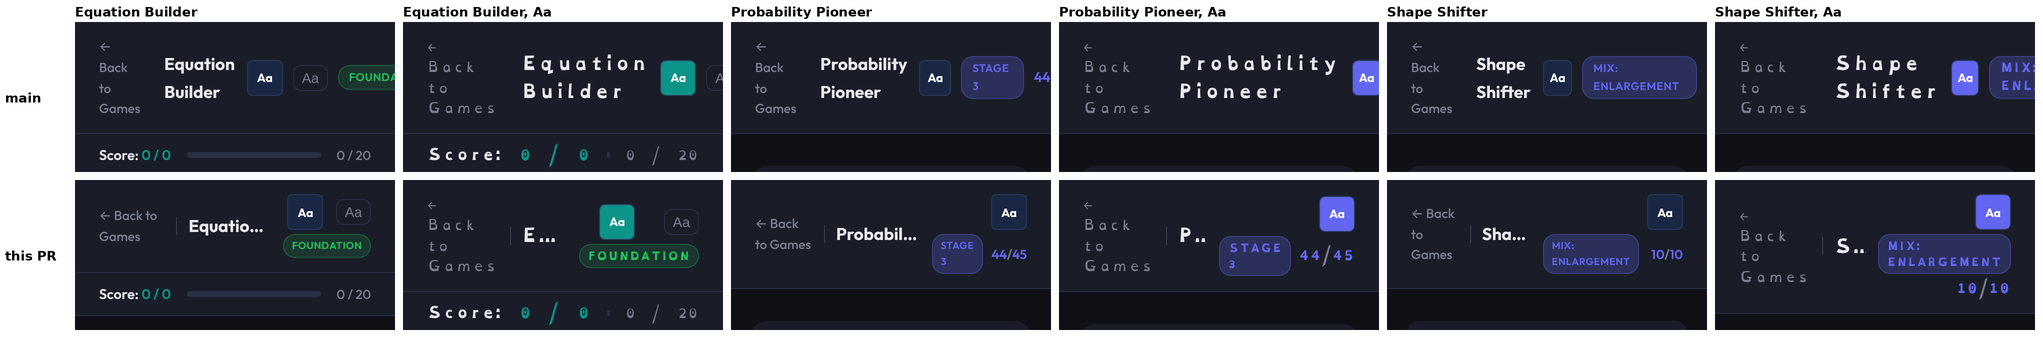
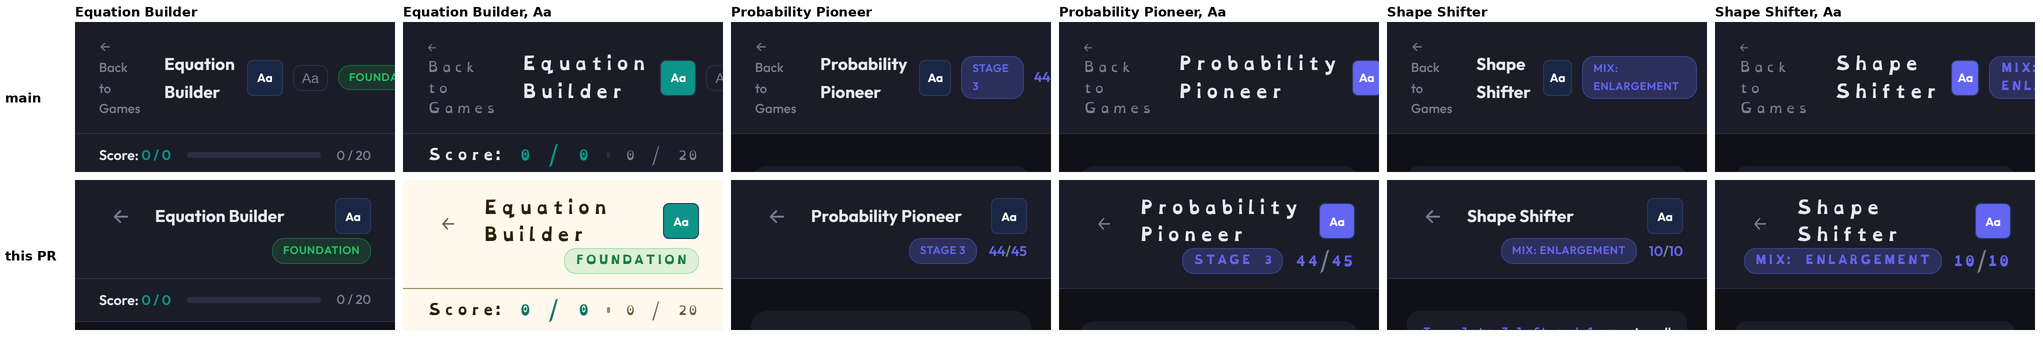
HEADER-FIT Amendment 1: one Aa button in Equation Builder; arrow-only back link so the title shows in full
Equation Builder (Jon, 11:34): keeps the standard a11yToggle (mfg_accessible). The second button
(a11yBtn, body.dyslexia, mfg_dyslexia) is removed with its CSS and handler; what it did that the
standard mode did not moves onto Aa mode: the cream palette and teal start title everywhere, the
larger text (18px, line-height 1.8) above 480px only, because on a phone with OpenDyslexic it put
Next below the fold (canon 7.6.1). Its tighter letter spacing gives way to the standard's.

All three games, below 375px and up to 480px in Aa mode: the back link shows its arrow only
(aria-label "Back to Games", 44x44, as Expected Damage), the divider hides, the title and the Aa
toggle share the first row and the pill and score take a row under them. The title shows in full
at 320px (168px wide; two lines at a word break in Aa mode); the ellipsis is a last resort only.
The smaller pill and score text is no longer needed and is dropped.

measure-phone-fit, normal and Aa, three games, three sizes: every figure the same or better than
main, no sideways scroll; tier 1 clean.

Claude-Session: https://claude.ai/code/session_016VxfSWZovUq7yE2hfiSKFo

diff --git a/games/equation-builder/index.html b/games/equation-builder/index.html
@@ -124,30 +124,43 @@ body{padding-bottom:44px;background:var(--bg);font-family:'Outfit',system-ui,san
 .play-again:hover{opacity:0.9}
 
 /* Accessibility toggle */
-.a11y-btn{background:none;border:1px solid var(--border);color:var(--muted);border-radius:8px;padding:5px 8px;cursor:pointer;font-size:14px;line-height:1;transition:all 0.15s}
-.a11y-btn:hover{border-color:var(--teal);color:var(--text)}
-.a11y-btn.active{border-color:var(--teal);color:var(--teal);background:rgba(13,148,136,0.1)}
-body.dyslexia{background:#fdf6e3;color:#2d2006;--bg:#fdf6e3;--surface:#fff8ec;--surface-alt:#fef3d8;--border:#9a8654;--text:#2d2006;--muted:#6b5c3e;--teal:#087568;--teal-dim:rgba(8,117,104,0.18);--green:#15803d;--green-dim:rgba(21,128,61,0.12);--red:#b91c1c;--red-dim:rgba(185,28,28,0.1);--ks3:#15803d;--gcse:#1d4ed8;--l4:#b91c1c}
-body.dyslexia .screen{font-size:18px;line-height:1.8;letter-spacing:0.12em;word-spacing:0.16em}
-body.dyslexia .question-card{font-size:18px;line-height:1.8;letter-spacing:0.05em;word-spacing:0.12em}
-body.dyslexia .slot,body.dyslexia .tile{font-size:15px;letter-spacing:0.05em}
-body.dyslexia .start-title,body.dyslexia .results-pct{color:var(--teal)}
+/* Aa mode's cream palette and larger text, moved from the game's former second Aa button (HEADER-FIT Amendment 1).
+   The standard mode's wider letter and word spacing is kept. The larger text applies above 480px only: on a phone, with
+   OpenDyslexic, it pushed Next below the fold (canon 7.6.1). */
+body.accessible{background:#fdf6e3;color:#2d2006;--bg:#fdf6e3;--surface:#fff8ec;--surface-alt:#fef3d8;--border:#9a8654;--text:#2d2006;--muted:#6b5c3e;--teal:#087568;--teal-dim:rgba(8,117,104,0.18);--green:#15803d;--green-dim:rgba(21,128,61,0.12);--red:#b91c1c;--red-dim:rgba(185,28,28,0.1);--ks3:#15803d;--gcse:#1d4ed8;--l4:#b91c1c}
+@media(min-width:481px){
+body.accessible .screen{font-size:18px;line-height:1.8}
+body.accessible .question-card{font-size:18px;line-height:1.8}
+body.accessible .slot,body.accessible .tile{font-size:15px}
+}
+body.accessible .start-title,body.accessible .results-pct{color:var(--teal)}
 @media(prefers-reduced-motion:reduce){*{animation:none!important;transition:none!important}}
 
 .fade-out{opacity:0;transition:opacity 0.2s}.fade-in{opacity:1;transition:opacity 0.2s}
 @media(max-width:480px){.level-grid{grid-template-columns:1fr}.results-stats{grid-template-columns:1fr 1fr}}
-/* HEADER-FIT (todo §1.39): the header fits a 320px phone. The title shortens with an ellipsis; both Aa buttons stay on
-   the title's row and the level pill goes under them. Below 375px (normal mode overflowed only there on main), and up to 480px
-   in Aa mode, whose wider font overflowed at every phone size. */
+/* HEADER-FIT (todo §1.39, Amendment 1): the header fits a 320px phone with the title in full. The back link shows its
+   arrow only (named by aria-label), the title and the Aa toggle share the first row, and the level pill take a row
+   under them. Below 375px (normal mode overflowed only there on main), and up to 480px in Aa mode, whose wider font
+   overflowed at every phone size. The ellipsis is a last resort only. */
 @media(max-width:374px){
-.header-title{min-width:0;overflow:hidden;text-overflow:ellipsis;white-space:nowrap}
-.header-right{display:grid;grid-template-columns:auto auto;gap:4px 8px;justify-items:end;align-items:center}
-.level-pill{grid-column:1/-1;font-size:10px;padding:3px 8px}
+.header{flex-wrap:wrap;row-gap:0}
+.back-link{display:flex;align-items:center;justify-content:center;min-width:44px;min-height:44px;font-size:20px}
+.back-text,.header-div{display:none}
+.header-title{flex:1 1 0;min-width:0;overflow:hidden;text-overflow:ellipsis}
+.header-right{display:contents}
+.header::after{content:"";order:1;flex-basis:100%}
+.header-right>:not(.a11y-toggle){order:2}
+.header-right>.a11y-toggle+*{margin-left:auto}
 }
 @media(max-width:480px){
-body.accessible .header-title{min-width:0;overflow:hidden;text-overflow:ellipsis;white-space:nowrap}
-body.accessible .header-right{display:grid;grid-template-columns:auto auto;gap:4px 8px;justify-items:end;align-items:center}
-body.accessible .level-pill{grid-column:1/-1;font-size:10px;padding:3px 8px}
+body.accessible .header{flex-wrap:wrap;row-gap:0}
+body.accessible .back-link{display:flex;align-items:center;justify-content:center;min-width:44px;min-height:44px;font-size:20px}
+body.accessible .back-text,body.accessible .header-div{display:none}
+body.accessible .header-title{flex:1 1 0;min-width:0;overflow:hidden;text-overflow:ellipsis}
+body.accessible .header-right{display:contents}
+body.accessible .header::after{content:"";order:1;flex-basis:100%}
+body.accessible .header-right>:not(.a11y-toggle){order:2}
+body.accessible .header-right>.a11y-toggle+*{margin-left:auto}
 }
 
 /* === Accessibility === */
@@ -191,13 +204,11 @@ body.accessible p,body.accessible .question-text,body.accessible .statement-text
 <body>
 
 <div class="header">
-  <a href="../../" class="back-link">← Back to Games</a>
+  <a href="../../" class="back-link" aria-label="Back to Games">←<span class="back-text"> Back to Games</span></a>
   <div class="header-div"></div>
   <div class="header-title">Equation Builder</div>
   <div class="header-right">
     <button class="a11y-toggle" id="a11yToggle" aria-label="Toggle dyslexia-friendly mode" title="Dyslexia-friendly mode">Aa</button>
-
-    <button class="a11y-btn" id="a11yBtn" title="Accessibility: dyslexia-friendly mode">Aa</button>
     <span class="level-pill" id="levelPill"></span>
   </div>
 </div>
@@ -428,10 +439,6 @@ function init(){
   $('startBtn').addEventListener('click',startGame);
   $('playAgain').addEventListener('click',()=>showScreen('start'));
   $('checkBtn').addEventListener('click',checkAnswer);
-  // Accessibility toggle
-  const a11yBtn=$('a11yBtn');
-  if(localStorage.getItem('mfg_dyslexia')==='1'){document.body.classList.add('dyslexia');a11yBtn.classList.add('active');}
-  a11yBtn.addEventListener('click',()=>{document.body.classList.toggle('dyslexia');const on=document.body.classList.contains('dyslexia');localStorage.setItem('mfg_dyslexia',on?'1':'0');a11yBtn.classList.toggle('active',on);});
   // URL param level auto-select
   const urlLevel=MaffsLevel.resolve({slug:'equation-builder',levels:['ks3','gcse','level4'],fallback:'ks3'});
   if(MaffsLevel.declared('equation-builder').fromUrl){

diff --git a/games/shape-shifter/index.html b/games/shape-shifter/index.html
@@ -108,23 +108,29 @@ canvas{display:block;width:100%;border-radius:12px;background:#0a0c12;cursor:cro
 .instruction-bar{font-size:13px;padding:12px 14px}
 .btn-row{flex-direction:column;gap:8px}
 }
-/* HEADER-FIT (todo §1.39): the header fits a 320px phone. The title shortens with an ellipsis; the Aa toggle stays on
-   the title's row and the mode pill and score go under it. Below 375px (normal mode overflowed only there on main), and
-   up to 480px in Aa mode, whose wider font overflowed at every phone size; there the pill is too wide to sit beside
-   the score, so the three stack. */
+/* HEADER-FIT (todo §1.39, Amendment 1): the header fits a 320px phone with the title in full. The back link shows its
+   arrow only (named by aria-label), the title and the Aa toggle share the first row, and the mode pill and score take a row
+   under them. Below 375px (normal mode overflowed only there on main), and up to 480px in Aa mode, whose wider font
+   overflowed at every phone size. The ellipsis is a last resort only. */
 @media(max-width:374px){
-.header-title{min-width:0;overflow:hidden;text-overflow:ellipsis;white-space:nowrap}
-.header-right{display:grid;grid-template-columns:auto auto;gap:4px 8px;justify-items:end;align-items:center}
-.a11y-toggle{grid-column:2}
-.mode-pill{font-size:10px;padding:3px 8px}
-.score-display{font-size:13px}
+.header{flex-wrap:wrap;row-gap:0}
+.back-link{display:flex;align-items:center;justify-content:center;min-width:44px;min-height:44px;font-size:20px}
+.back-text,.header-div{display:none}
+.header-title{flex:1 1 0;min-width:0;overflow:hidden;text-overflow:ellipsis}
+.header-right{display:contents}
+.header::after{content:"";order:1;flex-basis:100%}
+.header-right>:not(.a11y-toggle){order:2}
+.header-right>.a11y-toggle+*{margin-left:auto}
 }
 @media(max-width:480px){
-body.accessible .header-title{min-width:0;overflow:hidden;text-overflow:ellipsis;white-space:nowrap}
-body.accessible .header-right{display:grid;grid-template-columns:auto;gap:4px;justify-items:end;align-items:center}
-body.accessible .a11y-toggle{grid-column:auto}
-body.accessible .mode-pill{font-size:10px;padding:3px 8px}
-body.accessible .score-display{font-size:13px}
+body.accessible .header{flex-wrap:wrap;row-gap:0}
+body.accessible .back-link{display:flex;align-items:center;justify-content:center;min-width:44px;min-height:44px;font-size:20px}
+body.accessible .back-text,body.accessible .header-div{display:none}
+body.accessible .header-title{flex:1 1 0;min-width:0;overflow:hidden;text-overflow:ellipsis}
+body.accessible .header-right{display:contents}
+body.accessible .header::after{content:"";order:1;flex-basis:100%}
+body.accessible .header-right>:not(.a11y-toggle){order:2}
+body.accessible .header-right>.a11y-toggle+*{margin-left:auto}
 }
 
 /* === Accessibility === */
@@ -160,7 +166,7 @@ body.accessible .instruction-bar,body.accessible .reveal-text,body.accessible .s
 
 <!-- HEADER -->
 <div class="header" id="gameHeader" style="display:none">
-  <a href="../../" class="back-link">← Back to Games</a>
+  <a href="../../" class="back-link" aria-label="Back to Games">←<span class="back-text"> Back to Games</span></a>
   <div class="header-div"></div>
   <span class="header-title">Shape Shifter</span>
   <div class="header-right">

diff --git a/games/probability-pioneer/index.html b/games/probability-pioneer/index.html
@@ -152,22 +152,29 @@ body{padding-bottom:44px;background:var(--bg);font-family:'Outfit',system-ui,san
 .scale-label .label-name{font-size:10px}
 .scale-label .label-val{font-size:12px}
 }
-/* HEADER-FIT (todo §1.39): the header fits a 320px phone. The title shortens with an ellipsis; the Aa toggle stays on
-   the title's row and the stage pill and score go under it. Below 375px (normal mode overflowed only there on main), and up to
-   480px in Aa mode, whose wider font overflowed at every phone size. */
+/* HEADER-FIT (todo §1.39, Amendment 1): the header fits a 320px phone with the title in full. The back link shows its
+   arrow only (named by aria-label), the title and the Aa toggle share the first row, and the stage pill and score take a row
+   under them. Below 375px (normal mode overflowed only there on main), and up to 480px in Aa mode, whose wider font
+   overflowed at every phone size. The ellipsis is a last resort only. */
 @media(max-width:374px){
-.header-title{min-width:0;overflow:hidden;text-overflow:ellipsis;white-space:nowrap}
-.header-right{display:grid;grid-template-columns:auto auto;gap:4px 8px;justify-items:end;align-items:center}
-.a11y-toggle{grid-column:2}
-.stage-pill{font-size:10px;padding:3px 8px}
-.score-display{font-size:13px}
+.header{flex-wrap:wrap;row-gap:0}
+.back-link{display:flex;align-items:center;justify-content:center;min-width:44px;min-height:44px;font-size:20px}
+.back-text,.header-div{display:none}
+.header-title{flex:1 1 0;min-width:0;overflow:hidden;text-overflow:ellipsis}
+.header-right{display:contents}
+.header::after{content:"";order:1;flex-basis:100%}
+.header-right>:not(.a11y-toggle){order:2}
+.header-right>.a11y-toggle+*{margin-left:auto}
 }
 @media(max-width:480px){
-body.accessible .header-title{min-width:0;overflow:hidden;text-overflow:ellipsis;white-space:nowrap}
-body.accessible .header-right{display:grid;grid-template-columns:auto auto;gap:4px 8px;justify-items:end;align-items:center}
-body.accessible .a11y-toggle{grid-column:2}
-body.accessible .stage-pill{font-size:10px;padding:3px 8px}
-body.accessible .score-display{font-size:13px}
+body.accessible .header{flex-wrap:wrap;row-gap:0}
+body.accessible .back-link{display:flex;align-items:center;justify-content:center;min-width:44px;min-height:44px;font-size:20px}
+body.accessible .back-text,body.accessible .header-div{display:none}
+body.accessible .header-title{flex:1 1 0;min-width:0;overflow:hidden;text-overflow:ellipsis}
+body.accessible .header-right{display:contents}
+body.accessible .header::after{content:"";order:1;flex-basis:100%}
+body.accessible .header-right>:not(.a11y-toggle){order:2}
+body.accessible .header-right>.a11y-toggle+*{margin-left:auto}
 }
 
 /* === Accessibility === */
@@ -206,7 +213,7 @@ body.accessible p,body.accessible .question-text,body.accessible .statement-text
 
 <!-- HEADER -->
 <div class="header" id="gameHeader" style="display:none">
-  <a href="../../" class="back-link">← Back to Games</a>
+  <a href="../../" class="back-link" aria-label="Back to Games">←<span class="back-text"> Back to Games</span></a>
   <div class="header-div"></div>
   <span class="header-title">Probability Pioneer</span>
   <div class="header-right">

diff --git a/updates/index.html b/updates/index.html
@@ -120,7 +120,7 @@
 
 <h3>New</h3>
 <ul>
-  <li><strong>9 Nov 2026:</strong> <strong><a href="/games/equation-builder/">Equation Builder</a>, <a href="/games/probability-pioneer/">Probability Pioneer</a> and <a href="/games/shape-shifter/">Shape Shifter</a>:</strong> the top bar now fits on small phones, with or without Aa, so the page no longer slides sideways.</li>
+  <li><strong>9 Nov 2026:</strong> <strong><a href="/games/equation-builder/">Equation Builder</a>, <a href="/games/probability-pioneer/">Probability Pioneer</a> and <a href="/games/shape-shifter/">Shape Shifter</a>:</strong> the top bar now fits on small phones, with or without Aa, so the page no longer slides sideways. Equation Builder now has one Aa button, which also turns on its cream colours.</li>
   <li><strong>9 Nov 2026:</strong> <strong><a href="/games/screening-room/">Screening Room</a>:</strong> on laptop screens the picture now fits with the Continue button, so there is no scrolling. In the larger groups each icon stands for more people, and the exact counts are still shown above the picture.</li>
   <li><strong>9 Nov 2026:</strong> <strong><a href="/games/test-the-claim/">Test the Claim</a>:</strong> the explanation shown after a wrong critical-region answer now reads properly, with its spaces.</li>
   <li><strong>7 Nov 2026:</strong> Scores in the ticker now open their game: tap one to try and beat it.</li>

diff --git a/docs/history/todo-done.md b/docs/history/todo-done.md
@@ -654,7 +654,7 @@ Moved word for word from `docs/todo.md` §1, each with its closing note, by the 
 |---|---|---|
 | 1.32 | **`test-the-claim` shows `q.crExplanation` through `K(hint)` on a wrong Step 3 answer (critical-region method; `index.html:1718-1719`), so explanations that join their maths with a plain word lose their spaces.** Confirmed 2 Oct 2026 by calling the game's own `checkStep3()` with a wrong value on all 36 binomial, Poisson and Normal questions: **15 lose their spaces (8 binomial, 7 Poisson)**, e.g. `P(X ≤ 0) = 0.0352 < 0.05 and P(X ≤ 1) = 0.1671 > 0.05` shows as `P(X≤0)=0.0352<0.05andP(X≤1)=0.1671>0.05`. The other 21, and all 8 correlation explanations, were authored with `\text{}` and render correctly. (Jon's ruling filed this as "all 36 discrete explanations", from a figure the audit overstated mid-session; the count above is the corrected one.) Missed by §1.10, which fixed the prompts only (via `PQ`), and by B7, whose call-site match needs `K(x.field)` while this argument is a local variable. B7's prose test would flag only 1 of the 15 anyway ("and" and "Upper" are single words). **§1.14's verification (`verify-test-the-claim.py`) checked values, not rendering.** Found by the KaTeX wrapper audit, `docs/audit-katex-wrappers.md`. **B7 ledger, 2 Oct (PR 59): 15 entries**, all `QUESTIONS.crExplanation`, B7 now sees them through `K(hint)`. Re-checked 2026-11-08 on main f8a287b4: STILL LIVE — `games/test-the-claim/index.html:1797` still shows the explanation through `K(hint)`; `data/check-ledger.json` holds the 15 B7 `crExplanation` entries (e.g. `:330`). Fixed 2026-11-09 by CLAIM-EXPLAIN-SPACES (#714): the 15 strings wrap their words in \text{}; B7's 15 ledger entries removed; 36 of 36 render with spaces. | **Jon** — in the fix contract with §1.30/§1.31 |
 | SCREENING-ROOM-FOLD | **Screening Room's Next below the fold on a laptop:** main's nightly phone-fit run 42466279497 red in laptop mode: screening-room's Next at 717 against 680 at 1280×720; not on known-failures. Recorded 8 Nov 2026 (BRANCH-CLEANUP, from LIVE-BUG-RECHECK). **Finding 2026-11-09 (SCREENING-ROOM-FOLD, cloud; stopped, nothing fixed):** only phone-fit-full measures laptop mode (check-site.yml has no such shard); it measured screening-room four times: 42395102257 (023a8215, 7 Nov) and 42398273406 (3fe605d6, 7 Nov) STALE; 42403456019 (0ec5cd4e, 7 Nov) PASS (no Next); 42466279497 (68c56f45, nightly 8 Nov) Next 717/680 HARD FAIL; every other run since skipped. Nothing between the last pass and the first fail touched the game or the checker (only answer-counts.json). The "Next" measured is phase 2's Continue, under the icon array after a wrong gut check, and its 717 is real and deterministic (seeded question gcse_07; local 717, the same as CI). The passes were false: the game shows Continue at about 5.0 s (1.2 s pause, 3.8 s animation) and the driver's settle() gives up at 5 s, so a slightly slower page reads it at opacity 0 as "no Next" (both verdicts reproduced locally on one commit). That false STALE is how #707 took the 27 Oct entry `1280x720 next` off. Across the bank Continue is below the fold at 1280x720 for 17 of 20 GCSE questions (up to 1013), 18/20 A-Level, 8/15 Core, 13/15 Level 4, and for 14/20 GCSE at 1366x768: everything but the icon grid takes 582 px against a 680 fold, and the grids are 75-467 px tall. Spacing alone can pass the seeded question but not the bank, so the fix is a design change (STOP IF); the settle race is a checker defect (shared, home lane). Waiting for Jon's ruling. **2026-11-09, SCREENING-ROOM-FIT (cloud; stopped before any code, STOP IF 1):** the live game does not ship 6 px icons: grid-100 draws 5 px icons with no gap (populations up to 10,000) and 3 px (over 10,000, one icon = k), so a 6 px floor is larger than today for 54 of 70 questions (38 at 5 px, 16 at 3 px). Even with the whole icon card's inner box (678 px wide, top to fold, nothing else in it) the best pitch for 10,000 icons is 4.25 px at 1280x720 and 4.5 px at 1366x768; 29 questions (1280x720) and 27 (1366x768) cannot reach 6 px in any layout, 26 cannot reach 5 px; (a)+(b) alone, full width, gets 2.5-3.25 px. Waiting for an amendment on the floor. **Closed 2026-11-09, SCREENING-ROOM-FIT Amendment 1 (Jon, 08:46: "the picture helps understanding; the maths is what matters"):** the icon array's cap lowered from 10,000 to 1,000 icons (the largest of 1,000/500/200/100 that fits), grouping, part-icons and the exact-count note unchanged; the grid class now follows the icons drawn (up to 50: 10 columns; up to 250: 25; more: 100). All 70 items have Continue above the fold at both laptop sizes, worst core_08 649/680 at 1280x720 (was gcse_14 1013) and 649/728 at 1366x768; verify-screening-room.py now plays every item to phase 2 after a wrong gut check at both sizes on the page clock and fails any Continue below the fold (main's page: 56 and 38 items). | cloud lane |
-| 1.39 | **`div.header-right` overflows a phone in 10 games** (`decimal-detective`, `equation-builder`, `four-quadrant-explorer`, `like-terms-collector`, `maths-court`, `negative-number-line`, `probability-pioneer`, `shape-shifter`, `word-problem-decoder`, `wrong-on-the-internet`, after start; 4 to 55px over). 24 games use the class name. **First establish whether it is a shared copied template** (diff the `.header-right` rules); if it is, one fix in the template's source and the 24 games that carry it; if not, §3.9's per-game batches (§3.9 already treats it per game). Nothing is changed until that is known. Re-checked 2026-11-08 on main f8a287b4: PART — FIXED (no entry; main run 42512282061's Tier 1, real fonts, after start): `decimal-detective`, `four-quadrant-explorer`, `like-terms-collector`, `maths-court`, `negative-number-line`, `word-problem-decoder` and `wrong-on-the-internet`, removed by #256 (FONT-FIT: they fit in the real fonts); the nightly full phone-fit run 42466279497 (normal mode) shows none of the seven scrolling sideways. STILL LIVE (entries; the nightly agrees): `equation-builder` 329, `probability-pioneer` 355, `shape-shifter` 375. The template question is open; the three carry the identical rule `.header-right{margin-left:auto;display:flex;align-items:center;gap:10px}` (`equation-builder:40`, `probability-pioneer:38`, `shape-shifter:40`). **Closed 2026-11-09, HEADER-FIT (cloud):** the template question answered: the `.header-right` rule is the same in all 24, so the rule was not the fault; each overflow was that game's own header contents. equation-builder carries two Aa buttons and both are wired (`a11yToggle`: OpenDyslexic, `mfg_accessible`; `a11yBtn`: the cream palette and spacing, `mfg_dyslexia`), so neither was removed. In the three games, below 375px (normal mode overflowed only at 320 on main) and up to 480px in Aa mode (OpenDyslexic overflowed at every phone size), the title shortens with an ellipsis, the Aa toggle stays on the title's row at its full 36px, and the pill and score sit on a row under it, a size smaller (Shape Shifter's stack in Aa mode). measure-phone-fit, normal and Aa: no sideways scroll at 320x568, 375x667 or 390x844, every other figure the same or better (asking screen 4-19px higher at 320x568); the probe also measured 360x640 and each game's own Aa setting. The sideways entries and the three tier1_phone_overflow entries, reported stale, are removed. | CC |
+| 1.39 | **`div.header-right` overflows a phone in 10 games** (`decimal-detective`, `equation-builder`, `four-quadrant-explorer`, `like-terms-collector`, `maths-court`, `negative-number-line`, `probability-pioneer`, `shape-shifter`, `word-problem-decoder`, `wrong-on-the-internet`, after start; 4 to 55px over). 24 games use the class name. **First establish whether it is a shared copied template** (diff the `.header-right` rules); if it is, one fix in the template's source and the 24 games that carry it; if not, §3.9's per-game batches (§3.9 already treats it per game). Nothing is changed until that is known. Re-checked 2026-11-08 on main f8a287b4: PART — FIXED (no entry; main run 42512282061's Tier 1, real fonts, after start): `decimal-detective`, `four-quadrant-explorer`, `like-terms-collector`, `maths-court`, `negative-number-line`, `word-problem-decoder` and `wrong-on-the-internet`, removed by #256 (FONT-FIT: they fit in the real fonts); the nightly full phone-fit run 42466279497 (normal mode) shows none of the seven scrolling sideways. STILL LIVE (entries; the nightly agrees): `equation-builder` 329, `probability-pioneer` 355, `shape-shifter` 375. The template question is open; the three carry the identical rule `.header-right{margin-left:auto;display:flex;align-items:center;gap:10px}` (`equation-builder:40`, `probability-pioneer:38`, `shape-shifter:40`). **Closed 2026-11-09, HEADER-FIT (cloud), with Amendment 1 (Jon, 11:34):** the template question answered: the `.header-right` rule is the same in all 24, so the rule was not the fault; each overflow was that game's own header contents. equation-builder carried two wired Aa buttons (`a11yToggle`: OpenDyslexic, `mfg_accessible`; `a11yBtn`: a cream palette and larger text, `mfg_dyslexia`); by Jon's ruling it keeps the standard one, and the cream palette, teal start title and larger text moved onto it (the larger text above 480px only: on a phone it pushed Next below the fold), its tighter letter spacing dropped for the standard's. In the three games, below 375px (normal mode overflowed only at 320 on main) and up to 480px in Aa mode (OpenDyslexic overflowed at every phone size), the back link shows its arrow only (aria-label "Back to Games", 44x44), the divider hides, the title and the Aa toggle (36px) share the first row and the pill and score take a row under them. The title shows in full at 320px: 168px wide, one line in normal mode, two lines at a word break in Aa mode; the ellipsis is a last resort only. measure-phone-fit, normal and Aa: no sideways scroll at 320x568, 375x667 or 390x844, every figure the same or better; the probe also measured 360x640 and each game's own Aa setting. The sideways entries and the three tier1_phone_overflow entries, reported stale, are removed. | CC |
 
 ## Done — full history
 

diff --git a/docs/handover/cloud.md b/docs/handover/cloud.md
@@ -63,13 +63,13 @@ start-up load). When the work merges, move the file to `docs/history/contracts/`
 **Every PR:** no `check-changed.py` in the cloud (AGENTS.md, CLOUD-LEAN); merge only via `python scripts/merge-pr.py <n>
 --watch --wait 3600` (needs a green Gate and main, §7.8.3) and report its last line.
 
-## 2026-11-09 (cloud): HEADER-FIT (`docs/handover/contracts/2026-11-09-header-fit.md`, Small, todo row 1.39)
+## 2026-11-09 (cloud): HEADER-FIT (`docs/handover/contracts/2026-11-09-header-fit.md`, Small, Amendment 1, todo row 1.39)
 
-At the Gate, holding for Project Claude's review and Jon's look and "merge" (contract: do not merge); branch `claude/festive-lovelace-iukjhc`, worktree the primary checkout. STOP IF 1 hit and parked (27 Oct standing rules): both of equation-builder's Aa buttons are wired (`a11yToggle`: OpenDyslexic, key `mfg_accessible`; `a11yBtn`: the cream palette and spacing, key `mfg_dyslexia`), so neither was removed; which to keep is Jon's. The fit needed no removal: below 375px, and up to 480px in Aa mode, the title shortens with an ellipsis, the Aa toggle stays on the title's row at 36px, and pill and score go on a row under it, a size smaller. measure-phone-fit (normal, Aa) for the three: no sideways scroll at any size, every other figure the same or better; stale sideways and tier-1 entries removed. Todo row 1.39 closed to todo-done.md; /updates/ line; the three claimed together and released.
+At the Gate, holding for Project Claude's review and Jon's look and "merge" (contract: do not merge): [#717](https://github.com/OrthogonalMaffs/maffsgames/pull/717), branch `claude/festive-lovelace-iukjhc`, worktree the primary checkout. First Gate green on da3d4fe (run 42605952691) with both of equation-builder's Aa buttons kept (STOP IF 1, both wired) and the titles cut short at 320px. Amendment 1 (Jon, 11:34, "yes to both"): equation-builder keeps the standard `a11yToggle`; the second button's cream palette and teal start title moved onto Aa mode, and its larger text too but above 480px only (on a phone, with OpenDyslexic, it put Next at 836 against an 804 fold at 390x844); its tighter letter spacing gave way to the standard's. All three: below 375px, and up to 480px in Aa mode, the back link is its arrow only (aria-label "Back to Games", 44x44), the divider hides, title and Aa share the first row and the pill and score take a row under them; the title shows in full at 320px (168px wide; two lines at a word break in Aa). measure-phone-fit (normal, Aa): no sideways scroll, every figure the same or better than main; tier 1 clean. Todo row 1.39 closed to todo-done.md; /updates/ line; the three claimed together and released.
 
-Discoveries: measure-phone-fit's `--aa` sets `mfg_accessible`, but probability-pioneer and shape-shifter (and like-terms-collector, by the same key) read only `mfg_dyslexia`, so their Aa mode is never measured; in it both headers overflowed at every size (489, 498 px on main). probability-pioneer in its own Aa mode still scrolls sideways (418 px) from `div.scale-label`, question content outside this contract. At 320px the titles now show only their start ("Equatio…"), one letter in Aa mode: a look for Jon. Next: review, Jon's look and "merge"; the contract file moves to `docs/history/contracts/` after merge.
+Discoveries: measure-phone-fit's `--aa` sets `mfg_accessible`, but probability-pioneer and shape-shifter (and like-terms-collector, by the same key) read only `mfg_dyslexia`, so their Aa mode is never measured; in it both headers overflowed at every size (489, 498 px on main). probability-pioneer in its own Aa mode still scrolls sideways (418 px) from `div.scale-label`, question content outside this contract. Next: review, Jon's look and "merge"; the contract file moves to `docs/history/contracts/` after merge.
 
-Record: agent Claude Code; wall n/a (planner and container clocks differ); review cycles 0; amendments 0; usage n/a.
+Record: agent Claude Code; wall n/a (planner and container clocks differ); review cycles 0; amendments 1; usage n/a.
 
 ## 2026-11-09 (cloud): SCREENING-ROOM-FIT (`docs/history/contracts/2026-11-09-screening-room-fit.md`, Medium, Amendment 1, todo row SCREENING-ROOM-FOLD)
 

diff --git a/docs/handover/contracts/2026-11-09-header-fit.md b/docs/handover/contracts/2026-11-09-header-fit.md
@@ -16,3 +16,10 @@ EXACT CHANGE:
 DO NOT TOUCH: the other 21 games that carry .header-right; schools/assets/; questions, marking, wording; Gate files; scripts/measure-phone-fit.py; canon; AGENTS.md and docs/rules/; any other todo row; home.md.
 SUCCESS CONDITION: no sideways scroll in the three games at the three phone sizes in normal and Aa; nothing else worse; §1.39 closed; /updates/ line drafted; claims released; Gate green; stopped for review.
 STOP IF: both Aa buttons in equation-builder are wired; the fit needs removing a working control or shrinking a tap target under 44 px; another game's measurement changes; another lane or claim holds any of the three.
+
+HEADER-FIT — Amendment 1 (Project Claude, 9 Nov 11:36). LANE: cloud. Same branch, PR #717, claims held. Jon, 11:34: yes to both.
+1. equation-builder: one Aa button, the platform-standard a11yToggle (mfg_accessible). Move anything the game's own "dyslexia" class does that the standard accessible mode does not onto the accessible mode, then remove a11yBtn, its CSS and its mfg_dyslexia handler. Report what moved (or "nothing: accessible already covers it").
+2. All three games: on small phones (the widths where the title would otherwise truncate; at least ≤ 360 px), the back link shows "←" only, as Expected Damage does, with aria-label "Back to Games" kept and its tap target ≥ 44 px. The title then shows in full at 320 px in normal and Aa modes; report its width. Ellipsis stays only as a last resort, never down to one letter.
+3. Re-measure as before (normal and Aa, three phone sizes): no sideways scroll, nothing worse. Update the PR body's proofs and the /updates/ line if it changes.
+STOP IF: the dyslexia styling cannot move onto the standard mode without changing other games or schools/assets/ (report it); the title still truncates at 320 px with the arrow-only link.
+Nothing else changes.
